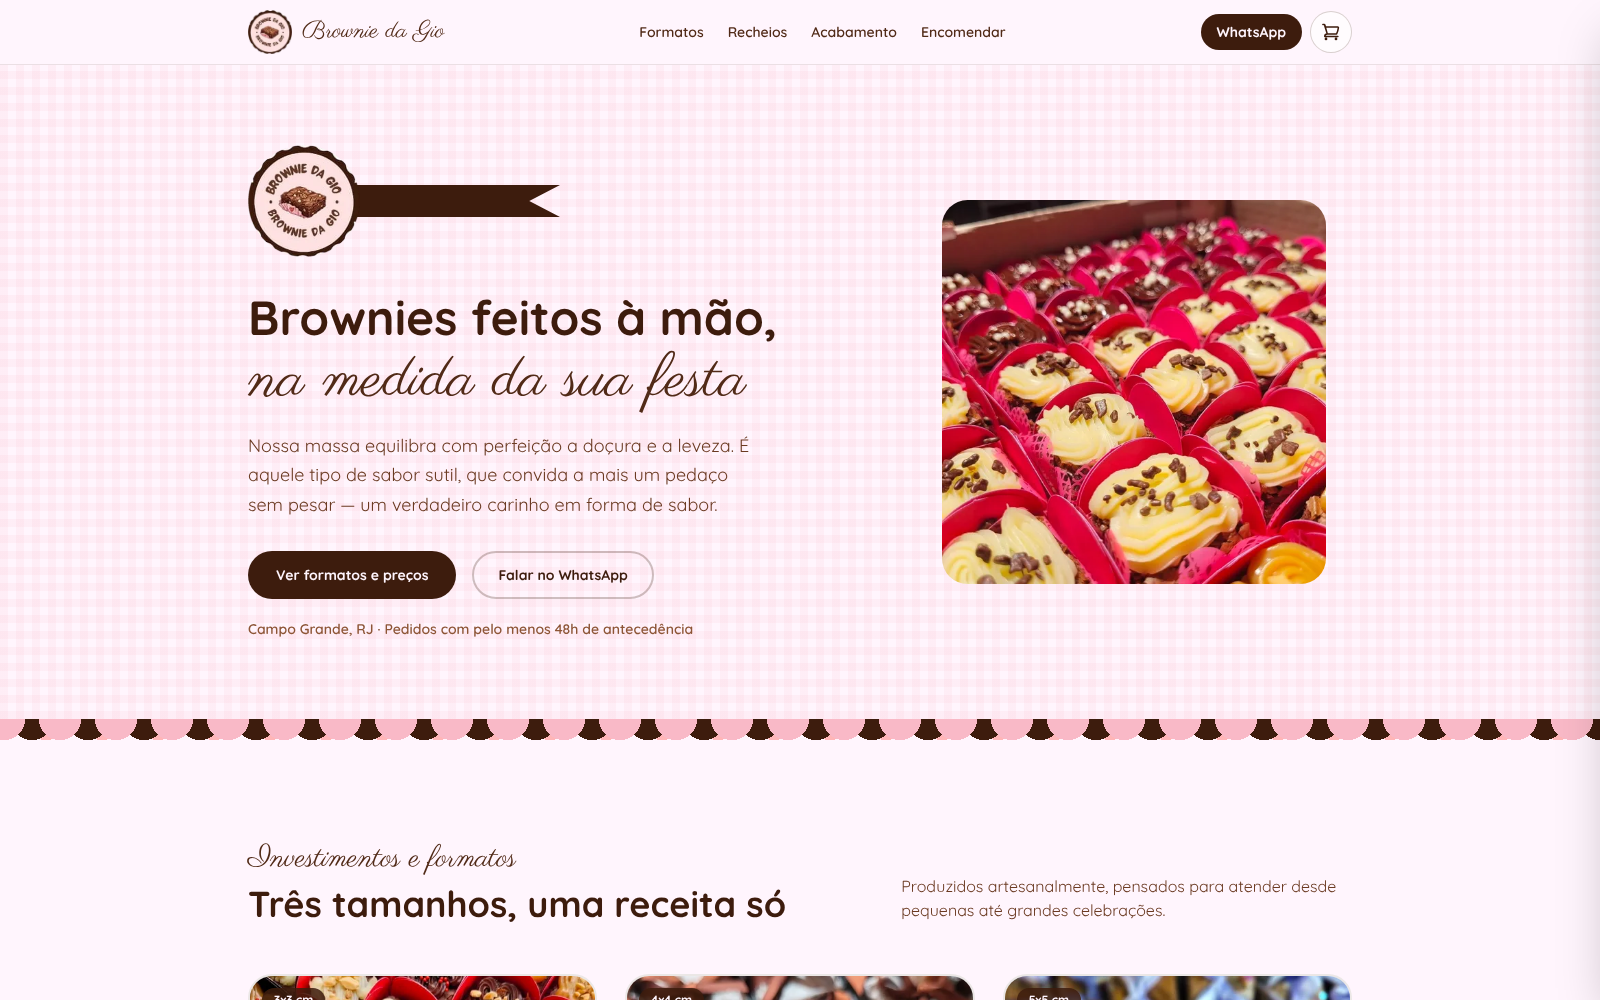
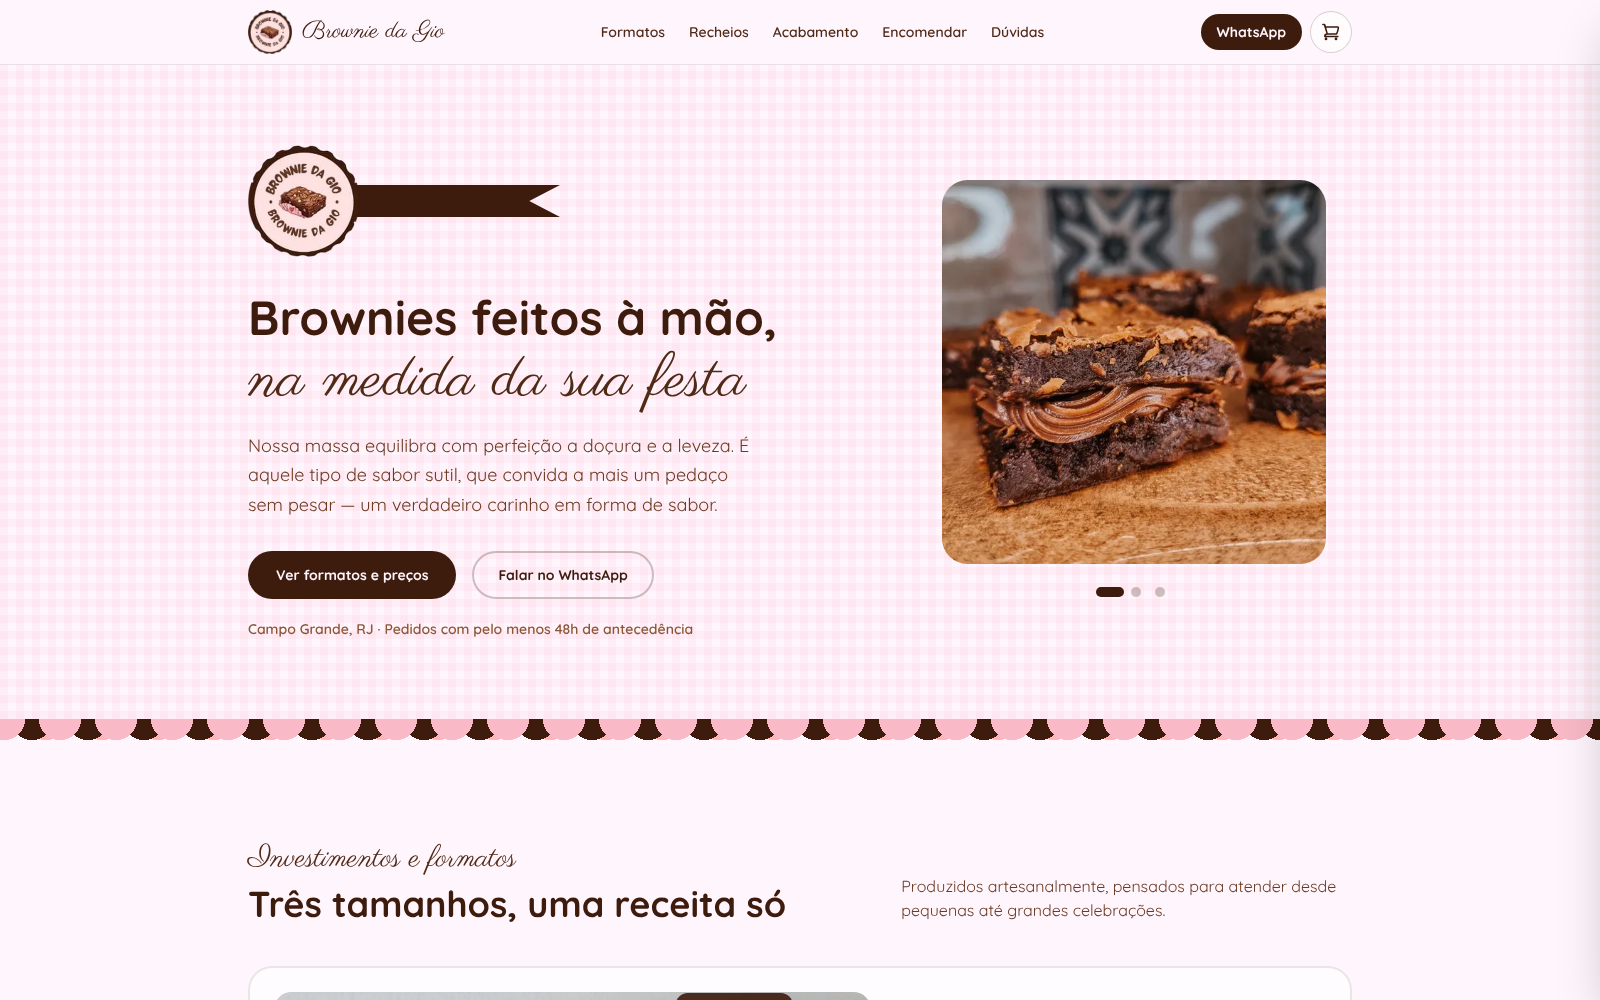
Aponta o Brownie da Gio para o domínio próprio e atualiza o print
O site saiu do endereço .vercel.app para browniedagio.com.br, e a
página mudou de visual desde a primeira captura. O print foi refeito
em 1600x1000, mesmo tamanho dos demais.

Claude-Session: https://claude.ai/code/session_013D7wNkWu1mcKekwbG2op4b

Changed region(s): [[0.5625, 0.155, 0.8438, 0.62], [0.1562, 0.961, 0.8438, 1.0], [0.375, 0.031, 0.6562, 0.062]]

diff --git a/src/data/projects.ts b/src/data/projects.ts
@@ -65,7 +65,7 @@ export const projects: Project[] = [
     name: 'Brownie da Gio',
     tagline: 'Catálogo de brownies artesanais com carrinho e pedido pelo WhatsApp',
     category: 'Catálogo com venda via WhatsApp',
-    url: 'https://brownie-da-gio.vercel.app',
+    url: 'https://browniedagio.com.br',
     accentFrom: '#5c3524',
     accentTo: '#d98fa8',
     image: brownieDaGioImage,
